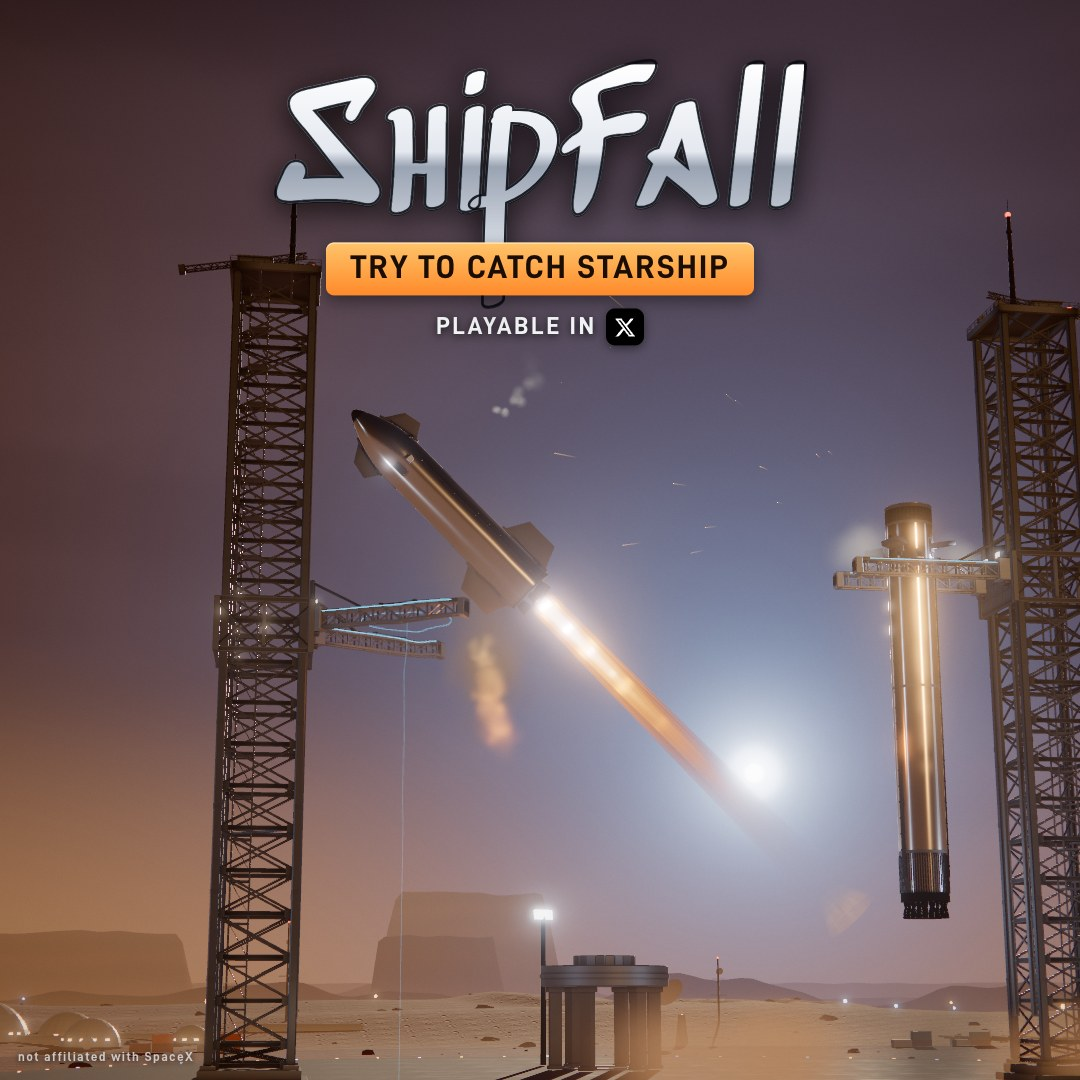
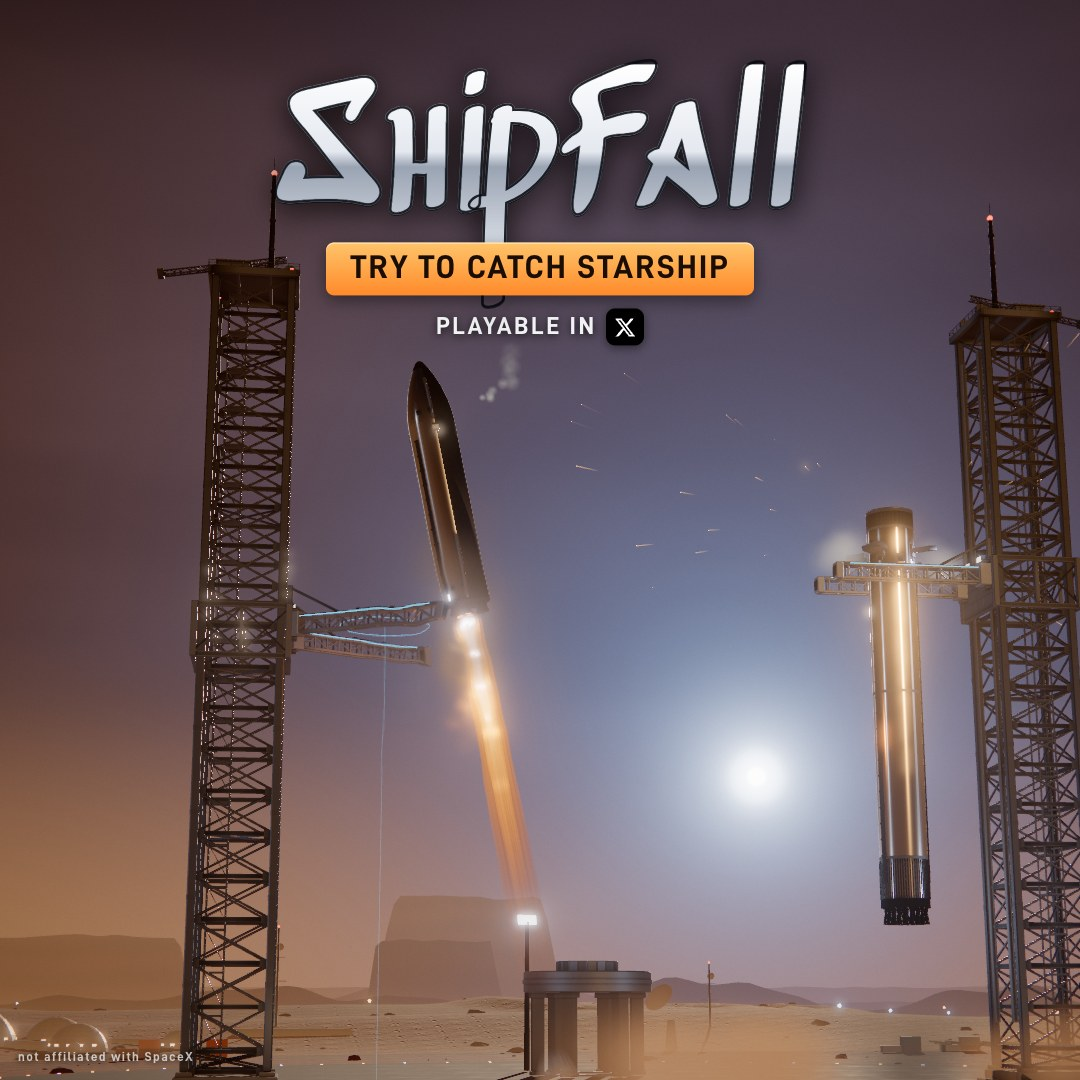
Ship descends nearly upright with a slight lean toward its tower, tiles facing out; card re-rendered

diff --git a/src/three/view.js b/src/three/view.js
@@ -11,7 +11,8 @@ import { Director, toX, toY } from './director.js';
 import { Orbit } from './orbit.js';
 import { VEHICLES, PX_PER_M, CATCH_TOL_X, DT } from '../sim.js';
 
-// Seconds the ship takes to swing from belly first to upright once its landing burn lights.
+// The ship's lean toward its tower on the way down (radians), and the seconds it takes to straighten once its burn lights.
+const SHIP_LEAN = 0.2;
 const SHIP_FLIP_S = 2.2;
 const GUIDE_R = VEHICLES.booster.halfW / PX_PER_M + CATCH_TOL_X / PX_PER_M;
 const ENGINE_EXIT = { booster: ENGINE_Y, ship: SHIP_ENGINE_Y };
@@ -433,11 +434,10 @@ export class View {
         root.rotation.set(0, 0, a);
         root.position.set(X - Math.sin(a) * c, Y - c + Math.cos(a) * c, 0);
       } else if (b.kind === 'ship' && b.state === 'falling') {
-        // The ship falls belly first, level with its tiles down and its nose toward the tower, and swings upright as the
-        // landing burn lights, nose leaning in; it rolls half a turn on the way so the tiles end up facing away.
+        // The ship comes down nearly upright, nose leaning slightly in toward the tower with its tiles facing away, and
+        // straightens as the landing burn lights.
         const k = b.burnT === null ? 0 : THREE.MathUtils.smoothstep(b.burnT, 0, SHIP_FLIP_S);
-        const a = -(b.tower === 0 ? 1 : -1) * (Math.PI / 2) * (1 - k) - b.tilt;
-        if (slot.spin) slot.spin.rotation.y += Math.PI * (1 - k);
+        const a = -(b.tower === 0 ? 1 : -1) * SHIP_LEAN * (1 - k) - b.tilt;
         const c = VEHICLES.ship.center / PX_PER_M;
         root.rotation.set(0, 0, a);
         root.position.set(X - Math.sin(a) * c, Y - c + Math.cos(a) * c, 0);
